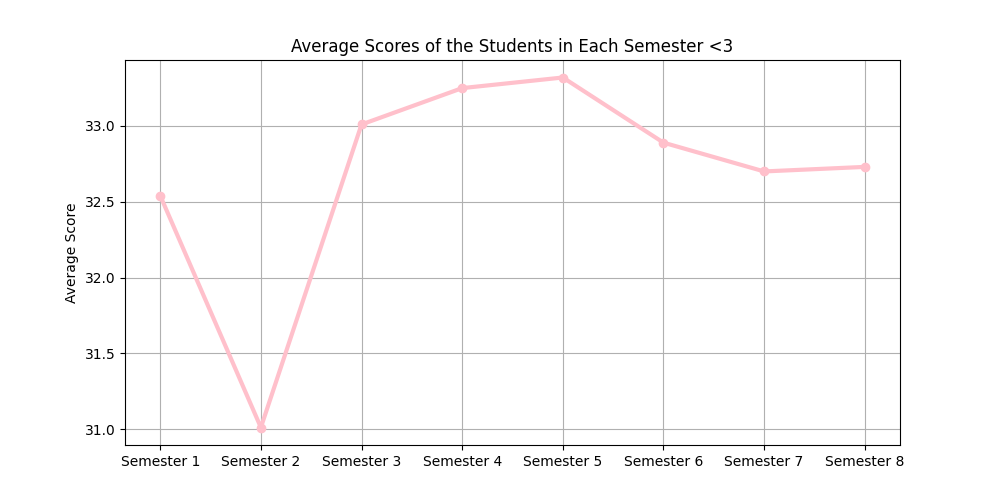
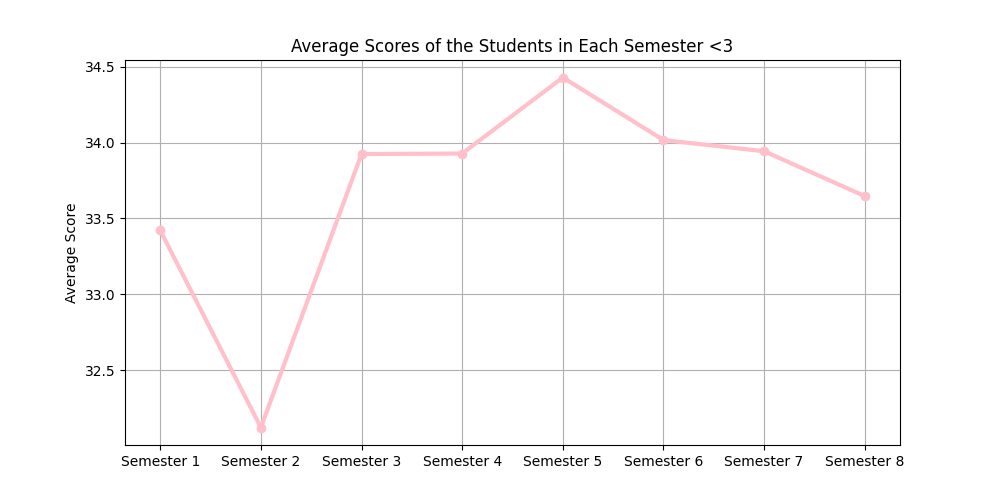
final changes and formatting

diff --git a/analyzer.py b/analyzer.py
@@ -3,16 +3,20 @@ from pandas import DataFrame, Series
 
 class Analyzer:
     """
-    Responsible for analyzing the data and providing basic statistics about the students.
+    Responsible for analyzing the data and providing
+    basic statistics about the students.
     """
-    def __init__(self, dataframe: DataFrame) ->  None:
+    def __init__(self, dataframe: DataFrame) -> None:
         """
         Initializes the Analyzer object with the given dataframe.
 
-        :param dataframe: DataFrame: DataFrame object containing the data of the students.
+        :param dataframe: DataFrame: DataFrame object containing
+        the data of the students.
         """
         self.df = dataframe
-        self.numeric_columns: list = ["Math", "Physics", "Chemistry", "Biology", "English"]
+        self.numeric_columns: list = self.df.select_dtypes(
+            include=['int64', 'float64']
+        ).columns.tolist()
 
     def students_who_failed(self) -> Series:
         """
@@ -20,7 +24,9 @@ class Analyzer:
 
         :return: Series: DataFrame object containing the list of students.
         """
-        df = self.df[(self.df[self.numeric_columns] < 50).any(axis=1)]["Student"]
+        df = self.df[
+            (self.df[self.numeric_columns] < 50).any(axis=1)
+        ]["Student"]
         df = df.drop_duplicates(inplace=False)
         df.reset_index(drop=True, inplace=True)
         return df
@@ -37,22 +43,37 @@ class Analyzer:
         """
         Returns the students with the highest average grade.
 
-        :return: Series: Series object containing the students with the highest average grade.
+        :return: Series: Series object containing the students
+        with the highest average grade.
         """
-        mean = self.df.groupby('Student').mean(numeric_only=True)
-        student_average_grade = mean.mean(axis=1).round(2)
+        data = self.df.groupby('Student').agg(
+            {
+                "Math": ["sum", "count"],
+                "Physics": ["sum", "count"],
+                "Chemistry": ["sum", "count"],
+                "Biology": ["sum", "count"],
+                "English": ["sum", "count"]
+            }
+        )
+        student_average_grade = (
+                data.xs('sum', axis=1, level=1).sum(axis=1) /   # type: ignore
+                data.xs('count', axis=1, level=1).sum(axis=1)   # type: ignore
+        )
         max_average = student_average_grade.max()
-        students_with_max_avg_grade = student_average_grade[student_average_grade == max_average]
+        students_with_max_avg_grade = (
+            student_average_grade[student_average_grade == max_average]
+        )
         return students_with_max_avg_grade
 
     def lowest_scores(self) -> tuple:
         """
-        Returns the subject with the lowest average score and the average score.
+        Returns the subject with the lowest average score and
+        the average score.
 
         :return: Tuple: Tuple containing the subject and the average score.
         """
         mean = self.df.mean(numeric_only=True)
-        min_value =  round(float(mean.min()), 2)
+        min_value = round(float(mean.min()), 2)
         min_subject = mean.idxmin()
         return min_subject, min_value
 
@@ -67,51 +88,38 @@ class Analyzer:
         new_df.to_excel("data/semester_average.xlsx", index=True)
 
     @staticmethod
-    def comparison(stud_dict: dict) -> str:
+    def comparison(grades: list) -> bool:
         """
-        Compares the values of the dictionary and returns the key of the dictionary if the
-        values are sorted in ascending order naturally.
+        Compares the list to a sorted version of the list and returns True
+        if the list is sorted.
 
-        :param stud_dict: dict: Dictionary containing the student, semester and the average score.
-        :return: str: The student who's average score got better throughout the semesters.
+        :param grades: list: list containing the average score.
+        :return: bool: True if the list is sorted, False otherwise.
         """
-        values_list: list = list(stud_dict.values())
-        sorted_values: list = sorted(values_list)
-
-        if sorted_values == values_list and values_list != [] and len(values_list) > 1:
-            student_name = list(stud_dict.keys())[0][0]
-            return student_name
+        sorted_values: list = sorted(grades)
+        if len(grades) <= 1:
+            return False
+        return list(grades) == sorted_values
 
     def students_who_got_better(self) -> None:
         """
-        Groups the dataframe by student and semester, calculates the average score and
-        for each student checks if the average score got better throughout the semesters
+        Groups the dataframe by student and semester, calculates
+        the average score and for each student checks if the average
+        cscore got better throughout the semesters
         with the help of the comparison method.
         """
         grouped = self.df.groupby(["Student", "Semester"]).first()
         grouped_average = grouped.mean(axis=1)
-        # print(grouped_average)
 
-        previous_student = None
-        student_dict = {}
-        for student, group in grouped_average.items():
-            current_student = student[0]
+        student_improved = grouped_average.groupby(level=0).filter(
+            lambda x: self.comparison(x.values)
+        )
+        students = list(student_improved.index)
+        student_names = [student[0] for student in students]
+        unique_students = set(student_names)
 
-            if previous_student is None:
-                previous_student = current_student
-
-            if previous_student != current_student:
-                compared = self.comparison(student_dict)
-                if compared:
-                    print(compared)
-                student_dict={}
-
-            previous_student = current_student
-            student_dict[student] = group
-
-        compared = self.comparison(student_dict)
-        if compared:
-            print(compared)
+        for student in unique_students:
+            print(student)
 
     def average_all_subject(self) -> tuple:
         """
@@ -130,7 +138,17 @@ class Analyzer:
 
         :return: Tuple: Tuple containing the semesters and the average scores.
         """
-        data = self.df.groupby("Semester")[self.numeric_columns].mean().mean(axis=1).round(2)
-        x = list(data.index)
-        y = list(data.values)
+        data = self.df.groupby("Semester")[self.numeric_columns].agg({
+            "Math": ["sum", "count"],
+            "Physics": ["sum", "count"],
+            "Chemistry": ["sum", "count"],
+            "Biology": ["sum", "count"],
+            "English": ["sum", "count"]
+        })
+        average_data: Series = (
+            data.xs('sum', axis=1, level=1).sum(axis=1) /   # type: ignore
+            data.xs('count', axis=1, level=1).sum(axis=1)   # type: ignore
+        )
+        x = list(average_data.index)
+        y = average_data.to_list()
         return x, y

diff --git a/main.py b/main.py
@@ -9,16 +9,17 @@ def main():
     data = pd.read_csv('data/student_scores_random_names.csv')
 
     datamanager = DataManager(data)
-    # datamanager.print_data()
-
-    df = datamanager.df
+    df = datamanager.print_data()
     cleaner = Cleaner(df)
 
-    # cleaner.clean_with_dropna() # Uncomment this line to clean the data with dropna
-    # cleaner.clean_with_mean()  # Uncomment this line to clean the data with mean
-    cleaner.clean_with_zeros()
+    # Uncomment this line to clean the data with dropna
+    # cleaner.clean_with_dropna()
+    # Uncomment this line to clean the data with mean
+    # cleaner.clean_with_mean()
+    df = cleaner.clean_with_zeros()
+    # datamanager.print_data()
 
-    datamanager.save_data_to_file("data/cleaned_student_scores_random_names.csv")
+    datamanager.save_to_csv("data/cleaned_student_scores_random_names.csv")
 
     analyzer = Analyzer(df)
     print("################## TASK 1 ################################")
@@ -37,7 +38,10 @@ def main():
     print(analyzer.lowest_scores())
 
     print("################## TASK 5 ################################")
-    print("New DataFrame with the average scores of the students in each semester:")
+    print(
+        "New DataFrame with the average scores of the students "
+        "in each semester:"
+    )
     analyzer.new_dataframe()
     data = pd.read_excel('data/semester_average.xlsx', index_col=0)
     print(data)
@@ -46,11 +50,17 @@ def main():
     print("Students who got better:")
     analyzer.students_who_got_better()
 
-    subject_data = analyzer.average_all_subject()  # Get the average of all subjects
-    visualizer.plot_average(subject_data)  # Plot the average of all subjects
+    # Get the average of all subjects
+    subject_data = analyzer.average_all_subject()
 
-    semester_data = analyzer.average_all_semester()  # Get the average of all semesters
-    visualizer.plot_average_semester(semester_data)  # Plot the average of all semesters
+    # Plot the average of all subjects
+    visualizer.plot_average(subject_data)
+
+    # Get the average of all semesters
+    semester_data = analyzer.average_all_semester()
+
+    # Plot the average of all semesters
+    visualizer.plot_average_semester(semester_data)
 
 
 if __name__ == '__main__':

diff --git a/visualizer.py b/visualizer.py
@@ -2,18 +2,21 @@ import matplotlib.pyplot as plt
 
 
 def plot_average(data):
+    plt.figure()
     categories, values = data
-    # plt.bar(categories, values, color='pink')
-    # plt.title("Average Scores of the Students in Every Subject <3")
-    # plt.savefig("figures/average_scores_subjects.png")
+    plt.bar(categories, values, color='pink')
+    plt.title("Average Scores of the Students in Every Subject <3")
+    plt.savefig("figures/average_scores_subjects.png")
     # plt.show()
 
+
 def plot_average_semester(data):
+    plt.figure()
     x, y = data
-    # plt.figure(figsize=(10, 5))
-    # plt.plot(x, y, marker='o', linewidth=3, color='pink')
-    # plt.grid(True)
-    # plt.title("Average Scores of the Students in Each Semester <3")
-    # plt.ylabel("Average Score")
-    # plt.savefig("figures/average_scores_semester.png")
+    plt.figure(figsize=(10, 5))
+    plt.plot(x, y, marker='o', linewidth=3, color='pink')
+    plt.grid(True)
+    plt.title("Average Scores of the Students in Each Semester <3")
+    plt.ylabel("Average Score")
+    plt.savefig("figures/average_scores_semester.png")
     # plt.show()

diff --git a/data_manager.py b/data_manager.py
@@ -15,14 +15,16 @@ class DataManager:
         :param dataframe: pandas dataframe object
         """
         self.df: DataFrame = dataframe
-        # pd.set_option('display.max_rows', None)  # Uncomment to show all rows
-        # pd.set_option('display.max_columns', None)  # Uncomment to show all columns
+        # Uncomment to show all rows and columns
+        # pd.set_option('display.max_rows', None)
+        # pd.set_option('display.max_columns', None)
 
-    def print_data(self) -> None:
+    def print_data(self) -> DataFrame:
         """
         Prints the data in the dataframe
         """
         print(self.df)
+        return self.df
 
     def get_column(self, column_name: str) -> Series:
         """
@@ -84,7 +86,7 @@ class DataManager:
         row_df = DataFrame([row_data])
         self.df = pd.concat([self.df, row_df], ignore_index=True)
 
-    def save_data_to_file(self, file_name: str, index = False) -> None:
+    def save_to_csv(self, file_name: str, index=False) -> None:
         """
         Saves the data in the dataframe to a file
 

diff --git a/cleaner.py b/cleaner.py
@@ -13,6 +13,12 @@ class Cleaner:
         """
         self.df: DataFrame = dataframe
         self.df.drop_duplicates(inplace=True)
+        self.df.dropna(
+            subset=["Math", "Physics", "Chemistry", "Biology", "English"],
+            how="all",
+            inplace=True
+        )
+        self.df.reset_index(drop=True, inplace=True)
 
     def clean_with_dropna(self) -> DataFrame:
         """
